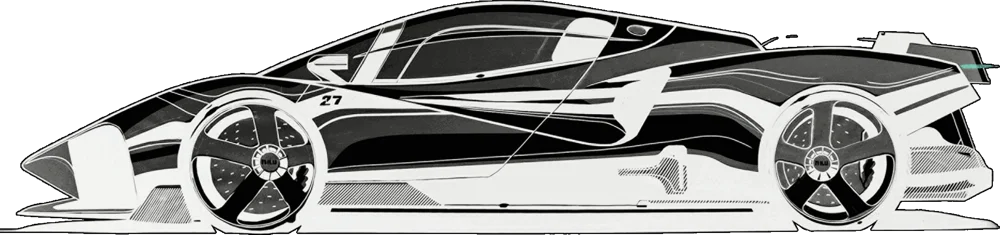
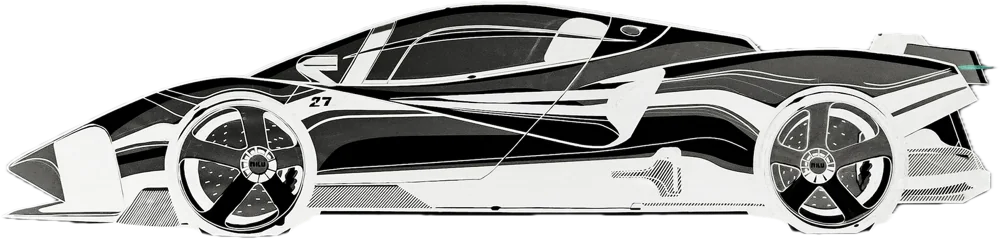
Auto-Bild durch Leos freigestellte Version ersetzt
Claude-Session: https://claude.ai/code/session_01H6YkxvjMeMFMdhauiUK4gC

Changed region(s): [[0.0, 0.0, 1.0, 1.0]]

diff --git a/index.html b/index.html
@@ -16,7 +16,7 @@
   <header class="hero">
     <h1>Leonard Philp</h1>
     <p class="sub">Industrial design student at HTW Berlin. I design vehicles and everyday products, with a business background that keeps them buildable and sellable.</p>
-    <img id="hero-car" src="bilder/hero-car.webp" alt="Full-scale automotive tape rendering of the sports car Nilu 27 by Leonard Philp" width="1965" height="461">
+    <img id="hero-car" src="bilder/hero-car.webp?v=2" alt="Full-scale automotive tape rendering of the sports car Nilu 27 by Leonard Philp" width="2051" height="490">
   </header>
 
   <main>
@@ -131,7 +131,7 @@
     </section>
 
     <section class="contact" id="contact">
-      <img class="contact-car" src="bilder/car-contact.webp" alt="" aria-hidden="true" width="1000" height="235">
+      <img class="contact-car" src="bilder/car-contact.webp?v=2" alt="" aria-hidden="true" width="1000" height="239">
       <p class="label accent">04 / Contact</p>
       <h2>Let's build<br>something.</h2>
       <ul class="links">
